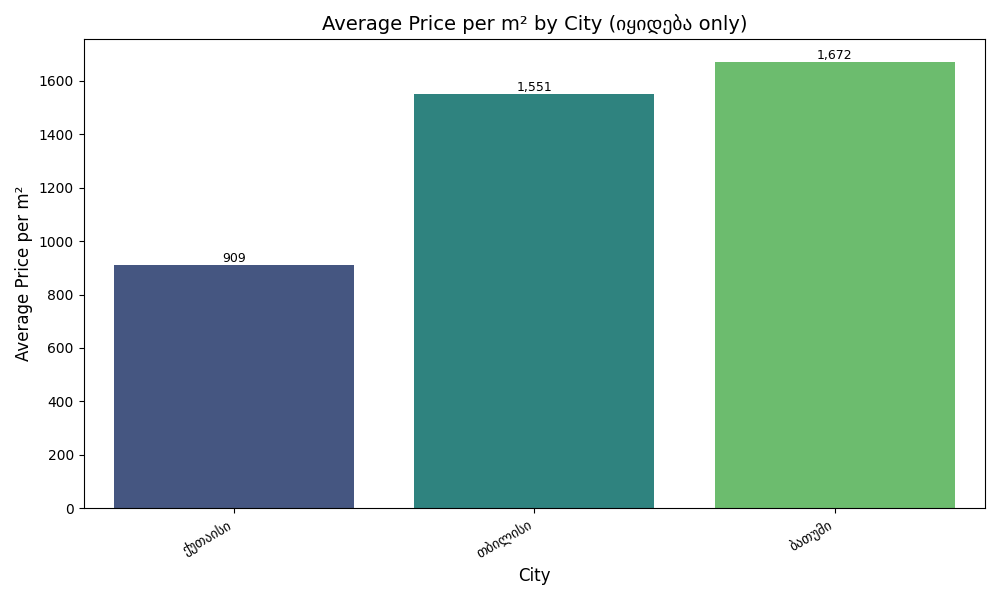
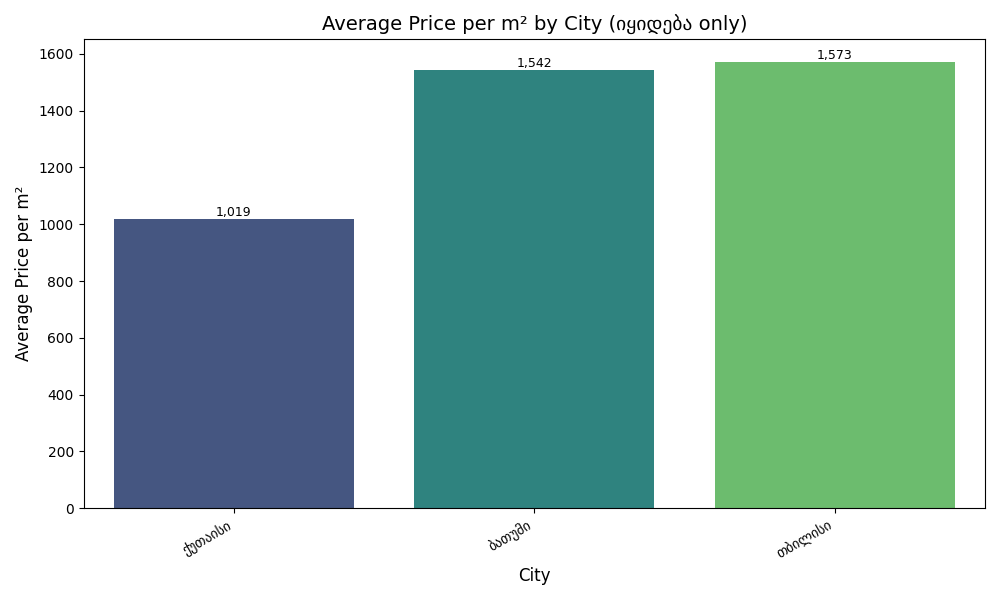
added handling for bedrooms and floor columns in database, adjusted data cleaning and data analysis steps

diff --git a/src/scrapers/SSHomeScraper.py b/src/scrapers/SSHomeScraper.py
@@ -1,3 +1,4 @@
+import pandas as pd
 from .BaseScraper import BaseScraper
 from selenium.webdriver.common.by import By
 from selenium.common.exceptions import StaleElementReferenceException
@@ -8,9 +9,8 @@ class SSHomeScraper(BaseScraper):
     def __init__(self):
         super().__init__()
         self.main_url = "https://home.ss.ge/ka/udzravi-qoneba/"
-        # self.city_id_dict = {'თბილისი': 95, "ქუთაისი": 97, 'ბათუმი': 96}
-        self.city_id_dict = {'თბილისი': 95}  # Cities with ids on this website
-        self.number_of_pages_to_scrape = 1
+        self.city_id_dict = {'თბილისი': 95, "ქუთაისი": 97, 'ბათუმი': 96} # Cities with ids on this website
+        self.number_of_pages_to_scrape = 5
         self.raw_apartments_csv_path = 'data_output/sshome_apartments.csv'
 
     def get_url(self, id, page):
@@ -31,7 +31,7 @@ class SSHomeScraper(BaseScraper):
 
                     print(f"{self.main_url} - City: {city_name}, Page: {page_counter}")
 
-                    try:
+                    try:  # Finding the main div grid where the data about apartments is located
                         listing_container = self.safe_find_element(driver, By.CLASS_NAME, "listing-container")
                         top_grid_lard = self.safe_find_element(listing_container, By.CLASS_NAME, "top-grid-lard")
                         child_divs = top_grid_lard.find_elements(By.TAG_NAME, "div")
@@ -42,7 +42,7 @@ class SSHomeScraper(BaseScraper):
                         continue
 
                     a_tags = self.wait_for_links(grid, '', selector='a')
-                    if len(a_tags) == 0:
+                    if len(a_tags) == 0:  # If there are not a_tags found then we skip the page
                         print(f"{self.main_url} - Skipping Page: {page_counter} — links not loaded")
                         page_counter += 1
                         continue
@@ -83,9 +83,9 @@ class SSHomeScraper(BaseScraper):
                                 'url': href,
                                 'city': city_name,
                                 'price': price,
-                                'price_per_sqm': None,
+                                'price_per_sqm': pd.NA,
                                 'description': description,
-                                'district_name': 'არ არის მოწოდებული',
+                                'district_name': pd.NA,
                                 'street_address': street_address,
                                 'area_m2': area_m2,
                                 "bedrooms": bedrooms,
@@ -94,20 +94,20 @@ class SSHomeScraper(BaseScraper):
                             })
 
                         except StaleElementReferenceException:
-                            print(f"{self.main_url} - Skipped page due to stale element error: "
+                            print(f"{self.main_url} - Skipping apartment... due to stale element error: "
                                   f"{city_name}, Page: {page_counter}")
-                            break
+                            continue
 
                         except Exception as parse_err:
-                            print(f"{self.main_url} - Error parsing apartment card: {parse_err}")
-                            break
+                            print(f"{self.main_url} - Skipping apartment... due to Error: {parse_err}")
+                            continue
 
                     page_counter += 1
 
             self.write_to_csv(apartments_data)
 
         except Exception as e:
-            print(f"{self.main_url} - Failed to load page or parse listings:", str(e))
+            print(f"{self.main_url} - Scraping stopped, Failed to load page or parse listings:", str(e))
 
         finally:
             driver.quit()

diff --git a/src/data_cleaning/DataCleaning.py b/src/data_cleaning/DataCleaning.py
@@ -72,7 +72,7 @@ class DataCleaning:
 
     def __fill_district_name_nulls(self):
         """Fills missing values in the district_name column with a default message."""
-        self.apartments_df['district_name'] = self.apartments_df['district_name'].fillna("არ არის მოწოდებული")
+        self.apartments_df['district_name'] = self.apartments_df['district_name'].fillna(pd.NA)
         print("NULL COLUMNS IN DISTRICT_NAME COLUMN HAVE BEEN FILLED")
 
     def __transform_bedrooms(self):
@@ -114,7 +114,7 @@ class DataCleaning:
         """Cleans raw floor values, extracts numeric info from strings like 'სართ. 3' or '8/11', and fills nulls."""
 
         def extract_floor_number(val):
-            if pd.isna(val):
+            if pd.isna(val) or val is None:
                 return pd.NA
 
             if isinstance(val, str):
@@ -123,12 +123,14 @@ class DataCleaning:
                     parts = val.split()
                     if len(parts) > 1 and parts[1].isdigit():
                         return int(parts[1])
-                elif '/' in val:
+                elif '/' in val and '-' not in val:
                     parts = val.split('/')
                     if len(parts) > 0 and parts[0].isdigit():
                         return int(parts[0])
                 elif val.isdigit():
                     return int(val)
+                else:
+                    return pd.NA
 
             elif isinstance(val, (int, float)):
                 return int(val)
@@ -153,7 +155,7 @@ class DataCleaning:
             try:
                 parts = upload_str.split()
                 if len(parts) != 3:
-                    return 'არ არის მოწოდებული'
+                    return pd.NA
 
                 if 'წუთი' in upload_str:
                     # Example input: '25 წუთის წინ'
@@ -206,7 +208,7 @@ class DataCleaning:
 
     def write_to_csv(self, path="data_output/cleaned_apartments.csv"):
         """ Writes the dataset to a csv file. """
-        self.apartments_df.to_csv(path, index=False)
+        self.apartments_df.to_csv(path, index=False, na_rep='<NA>')
 
     def main(self):
         self.__get_shape()
@@ -225,4 +227,3 @@ class DataCleaning:
         self.__new_transaction_type_col()
 
         self.__fill_district_name_nulls()
-        self.__get_null_columns()

diff --git a/src/scrapers/LivoScraper.py b/src/scrapers/LivoScraper.py
@@ -1,5 +1,7 @@
+import pandas as pd
 from .BaseScraper import BaseScraper
 from selenium.webdriver.common.by import By
+
 
 
 class LivoScraper(BaseScraper):
@@ -7,7 +9,7 @@ class LivoScraper(BaseScraper):
         super().__init__()
         self.main_url = "https://livo.ge/"
         self.city_id_dict = {'თბილისი': 1, "ქუთაისი": 96, 'ბათუმი': 15}  # Cities with ids on this website
-        self.number_of_pages_to_scrape = 1
+        self.number_of_pages_to_scrape = 5
         self.raw_apartments_csv_path = 'data_output/livo_apartments.csv'
 
     def get_url(self, id, page):
@@ -95,7 +97,7 @@ class LivoScraper(BaseScraper):
                                 'price': price,
                                 'price_per_sqm': price_per_sqm,
                                 'description': description,
-                                'district_name': 'არ არის მოწოდებული',
+                                'district_name': pd.NA,
                                 'street_address': street_address,
                                 'bedrooms': bedrooms,
                                 'floor': floor,

diff --git a/main.py b/main.py
@@ -19,10 +19,10 @@ if __name__ == "__main__":
     def run_sshome():
         SSHomeScraper().scraper()
 
-    # with ThreadPoolExecutor(max_workers=3) as executor:
-    #     futures = [executor.submit(run_myhome), executor.submit(run_livo), executor.submit(run_sshome)]
-    #     for future in futures:
-    #         future.result()  # Ensures any exceptions are raised
+    with ThreadPoolExecutor(max_workers=3) as executor:
+        futures = [executor.submit(run_myhome), executor.submit(run_livo), executor.submit(run_sshome)]
+        for future in futures:
+            future.result()  # Ensures any exceptions are raised
 
     """ Step 2: Data cleaning and transformation """
     data_cleaning = DataCleaning()
@@ -30,9 +30,9 @@ if __name__ == "__main__":
     data_cleaning.write_to_csv()
 
     """ Step 3: Save data in the database """
-    # database = Database()
-    # database.setup_database()
+    database = Database()
+    database.setup_database()
 
     """ Step 4: Data Analysis """
-    # data_analysis = DataAnalysis()
-    # data_analysis.main()
+    data_analysis = DataAnalysis()
+    data_analysis.main()

diff --git a/src/scrapers/MyHomeScraper.py b/src/scrapers/MyHomeScraper.py
@@ -1,3 +1,4 @@
+import pandas as pd
 from .BaseScraper import BaseScraper
 from selenium.webdriver.common.by import By
 from selenium.webdriver.support.ui import WebDriverWait
@@ -10,7 +11,7 @@ class MyHomeScraper(BaseScraper):
         super().__init__()
         self.main_url = "https://www.myhome.ge/"
         self.city_id_dict = {'თბილისი': 1, "ქუთაისი": 96, 'ბათუმი': 15}  # Cities with ids on this website
-        self.number_of_pages_to_scrape = 1
+        self.number_of_pages_to_scrape = 5
         self.raw_apartments_csv_path = 'data_output/myhome_apartments.csv'
 
     def get_url(self, id, page):
@@ -83,7 +84,7 @@ class MyHomeScraper(BaseScraper):
                                 'district_name': district_name,
                                 'street_address': street_address,
                                 'area_m2': area_m2,
-                                "bedrooms": None,
+                                "bedrooms": pd.NA,
                                 "floor": floor,
                                 'upload_date': upload_date
                             })

diff --git a/src/data_analysis/DataAnalysis.py b/src/data_analysis/DataAnalysis.py
@@ -20,13 +20,17 @@ class DataAnalysis:
 
         city_counts = self.df['city'].value_counts()
 
+        def format_label(pct, all_vals):
+            absolute = int(round(pct / 100 * sum(all_vals)))
+            return f"{pct:.1f}%\n({absolute})"
+
         plt.figure(figsize=(8, 8))
         plt.pie(
-            city_counts, labels=city_counts.index, autopct='%1.1f%%', startangle=140,
+            city_counts, labels=city_counts.index, autopct=lambda pct: format_label(pct, city_counts), startangle=140,
             colors=sns.color_palette('pastel')[:len(city_counts)], textprops={'fontsize': 15}
         )
 
-        plt.title('Apartment Listing Distribution by City')
+        plt.title(f'Apartment Listing Distribution by City. \nApartment amount {len(self.df)}')
         plt.tight_layout()
         plt.savefig(self.image_path + output_path)
         plt.close()

diff --git a/database/Database.py b/database/Database.py
@@ -21,6 +21,8 @@ class Database:
                 district_name TEXT,
                 street_address TEXT,
                 area_m2 REAL,
+                bedrooms INTEGER,
+                floor INTEGER,
                 upload_date TEXT,
                 transaction_type TEXT
             );
@@ -38,8 +40,8 @@ class Database:
             cursor.execute(f"""
                 INSERT OR IGNORE INTO {self.apartments_table_name} (
                     url, city, price, price_per_sqm, description,
-                    district_name, street_address, area_m2, upload_date, transaction_type
-                ) VALUES (?, ?, ?, ?, ?, ?, ?, ?, ?, ?)
+                    district_name, street_address, area_m2, bedrooms, floor, upload_date, transaction_type
+                ) VALUES (?, ?, ?, ?, ?, ?, ?, ?, ?, ?, ?, ?)
             """, tuple(row))
 
         conn.commit()
